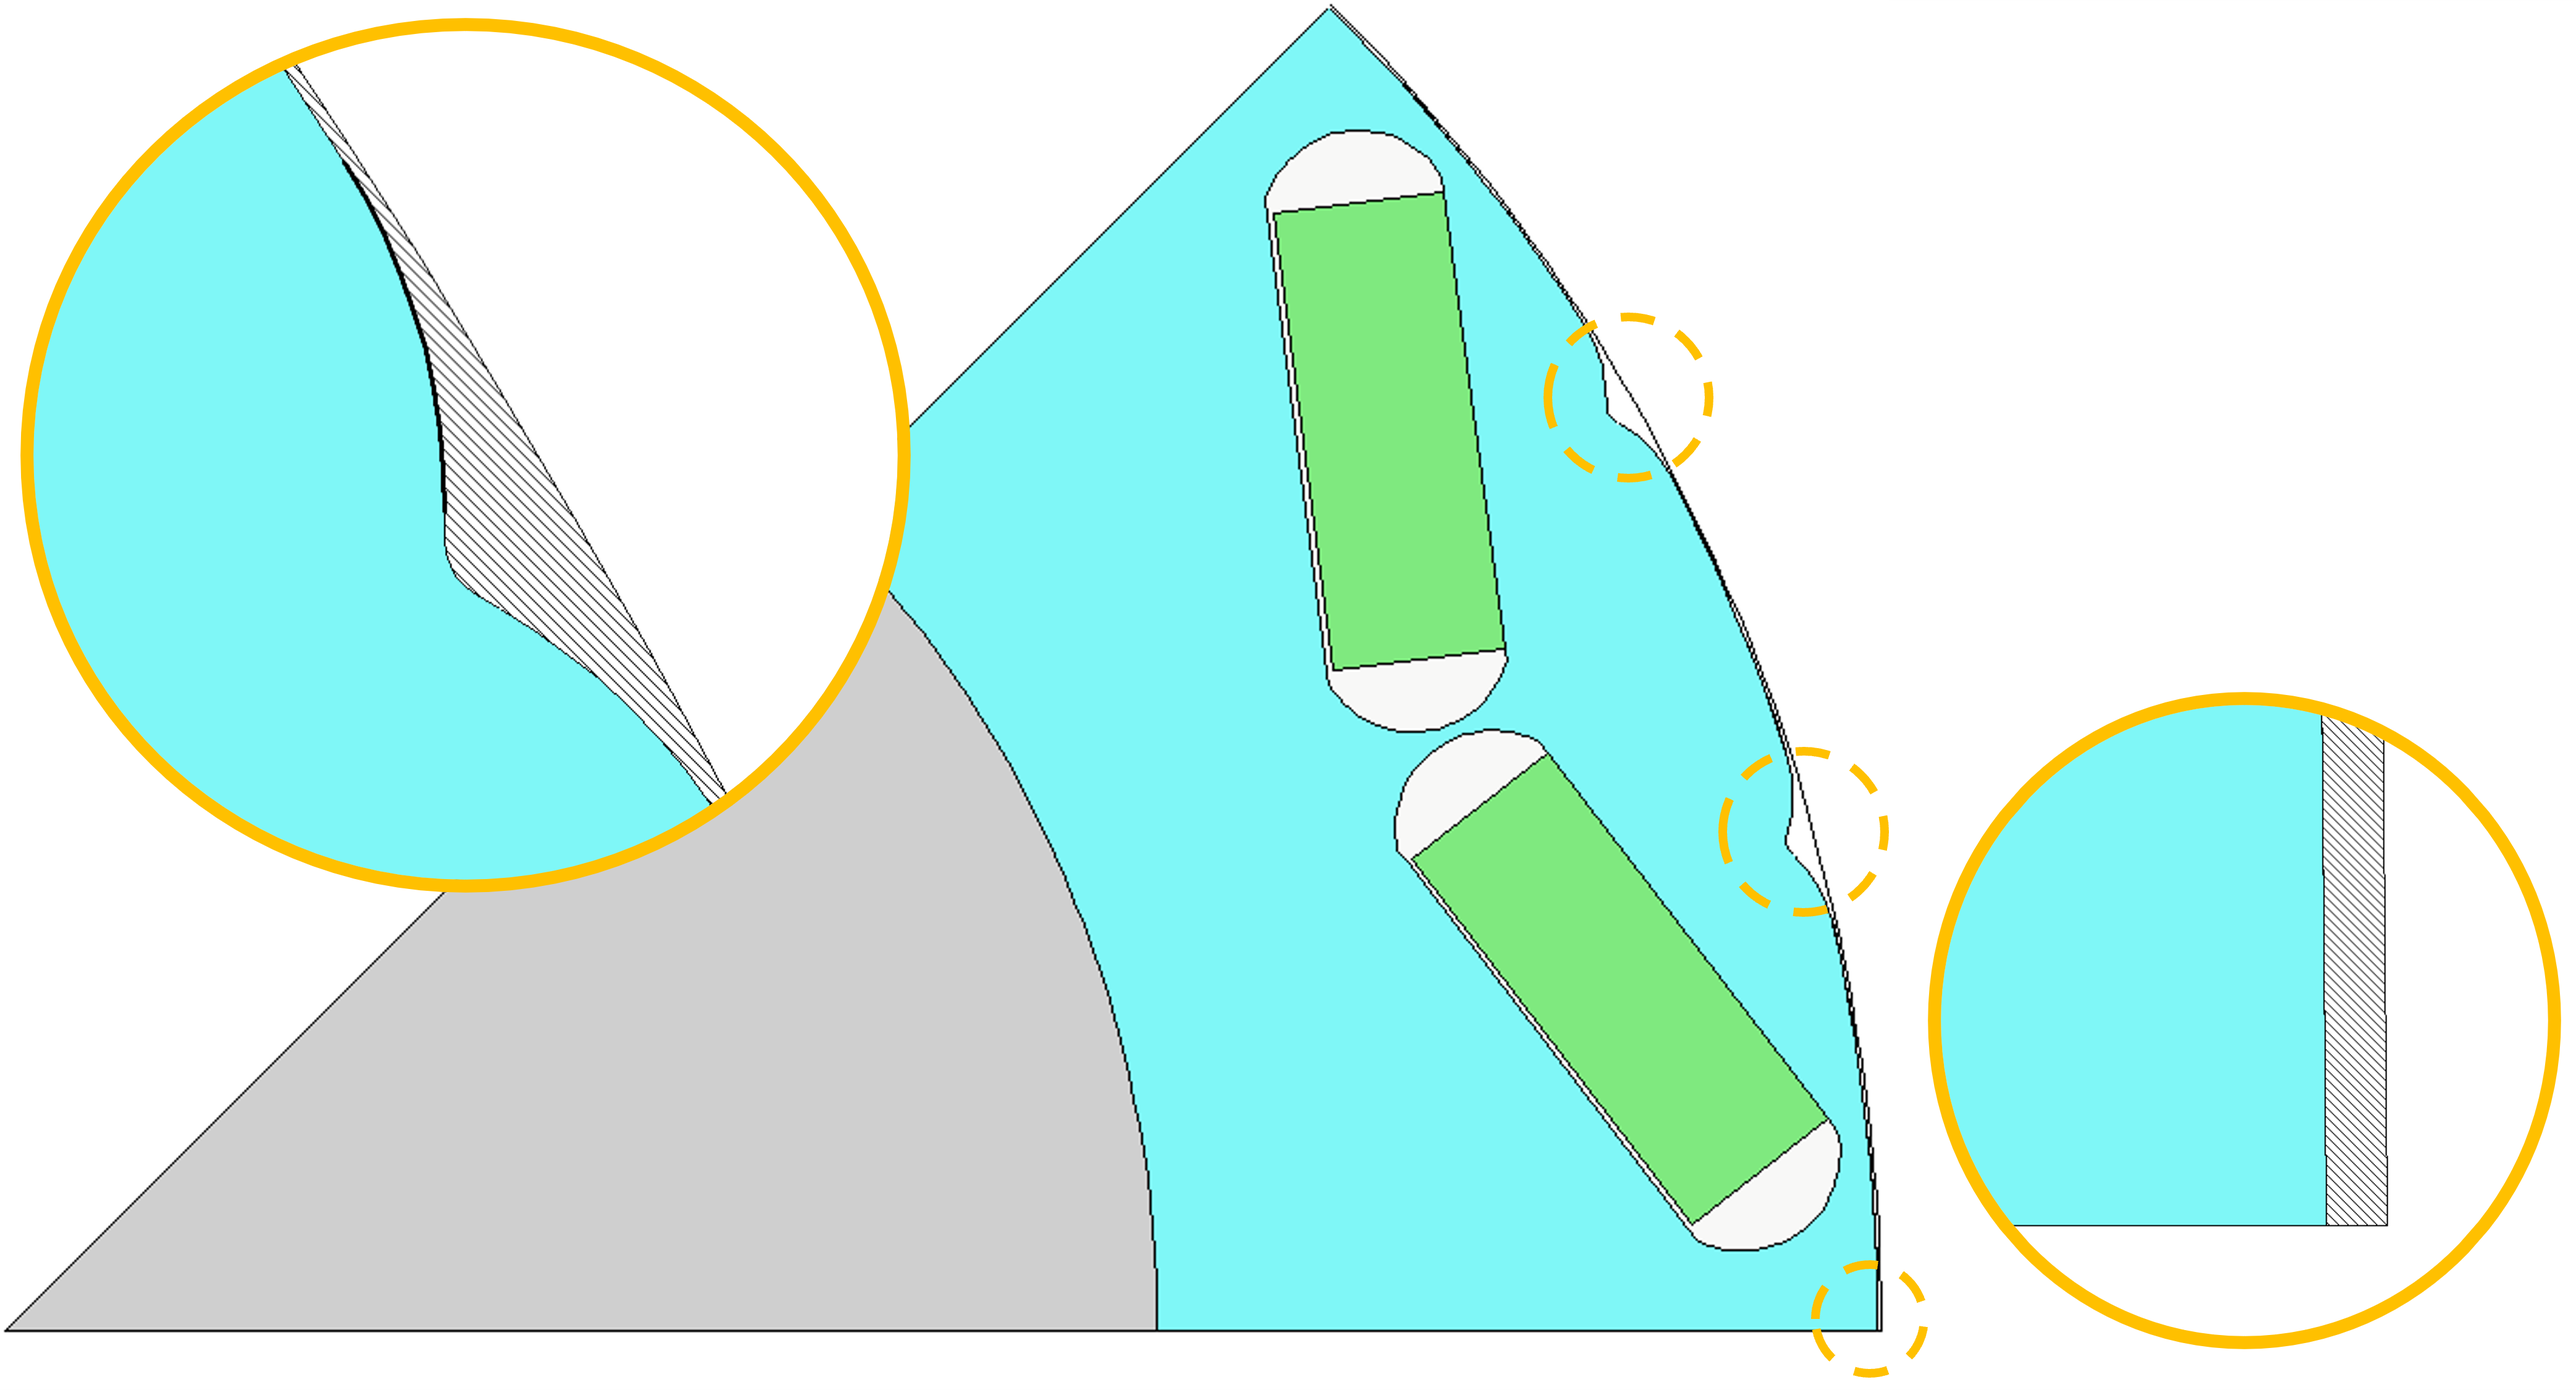
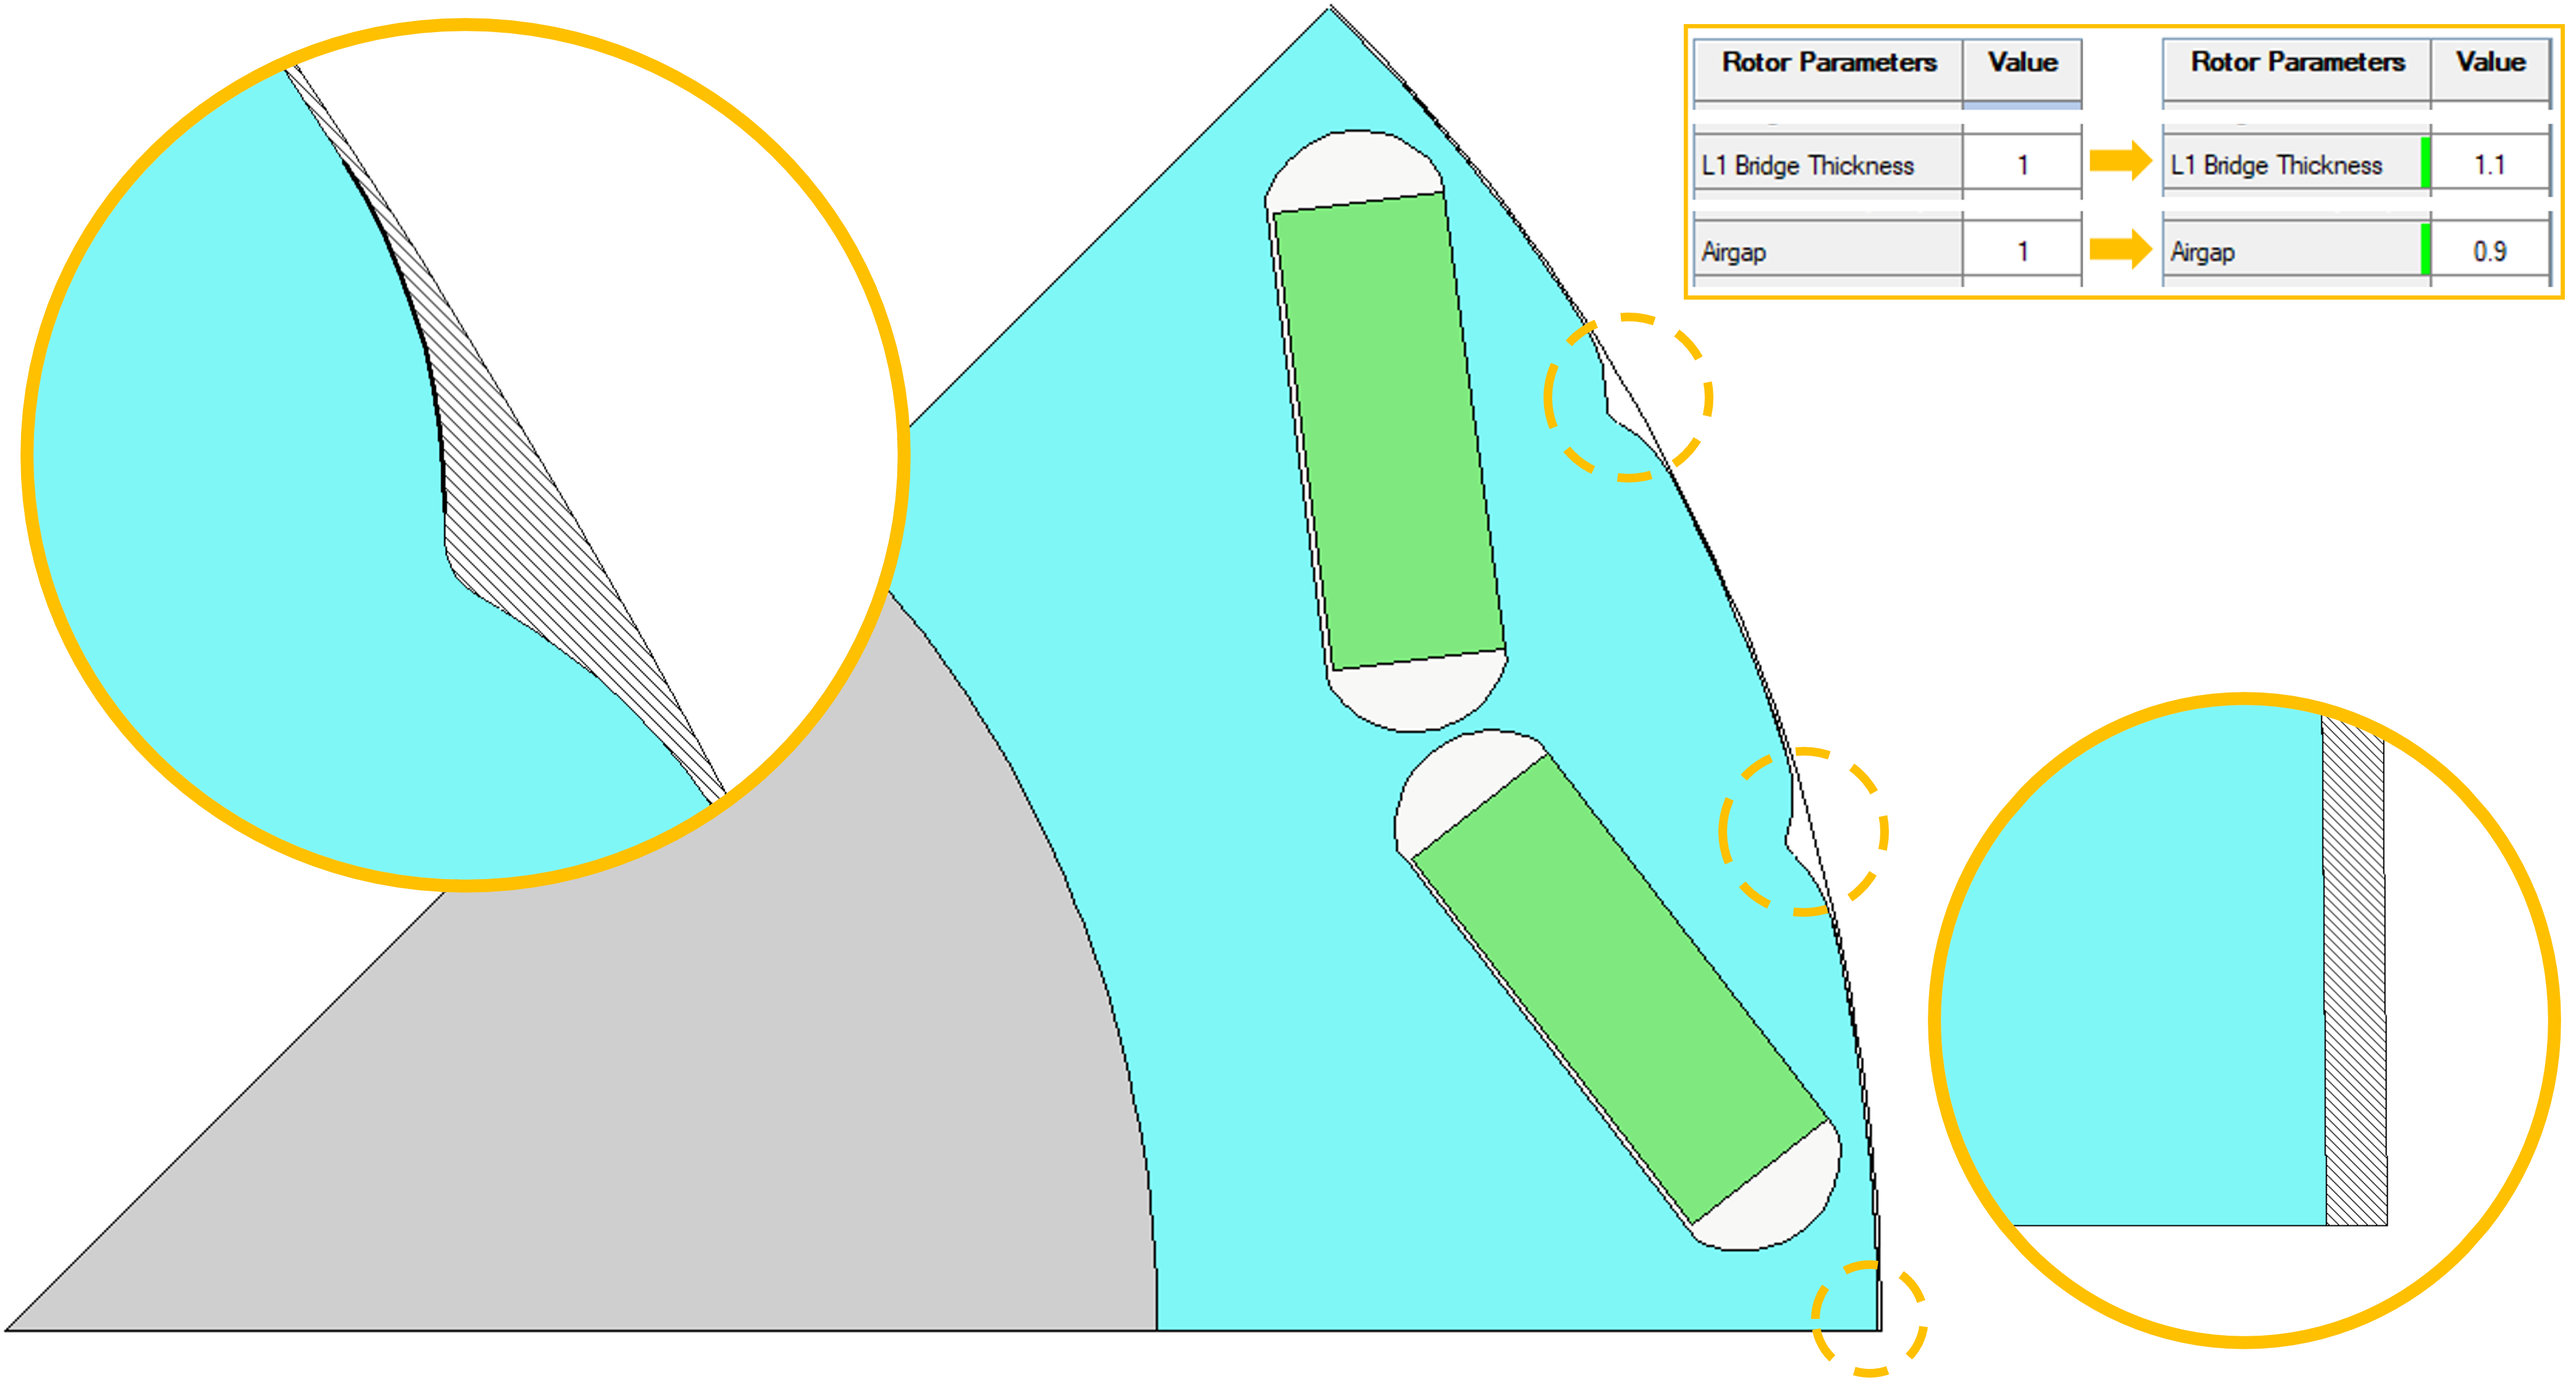
Additional clarification on modifying airgap and other parameters.

Changed region(s): [[0.6548, 0.0, 0.9978, 0.2178]]

diff --git a/doc/source/user_guide/adaptive_templates.rst b/doc/source/user_guide/adaptive_templates.rst
@@ -699,7 +699,10 @@ be added at the rotor outer boundary. This air band can be united with the notch
 single **Rotor Air** region. To account for the new air band region, the airgap can be reduced by
 the same distance. For example, if the original airgap is 1 mm, and a new air band of 0.1 mm
 thickness is added, the airgap should be reduced to 0.9 mm to keep the effective full airgap (airgap
-plus rotor air region) unchanged.
+plus rotor air region) unchanged. Depending on the rotor type, it may also be necessary to modify
+other standard template parameter values, such as the **Bridge Thickness** parameter for IPM
+topologies, to ensure that the rotor geometry is unchanged. The **Bridge Thickness** will still be
+measured from the airgap surface before any adaptive templates modifications.
 
 .. figure:: ../images/adaptive_templates/user_guide_airgap_5.png
     :width: 600pt
